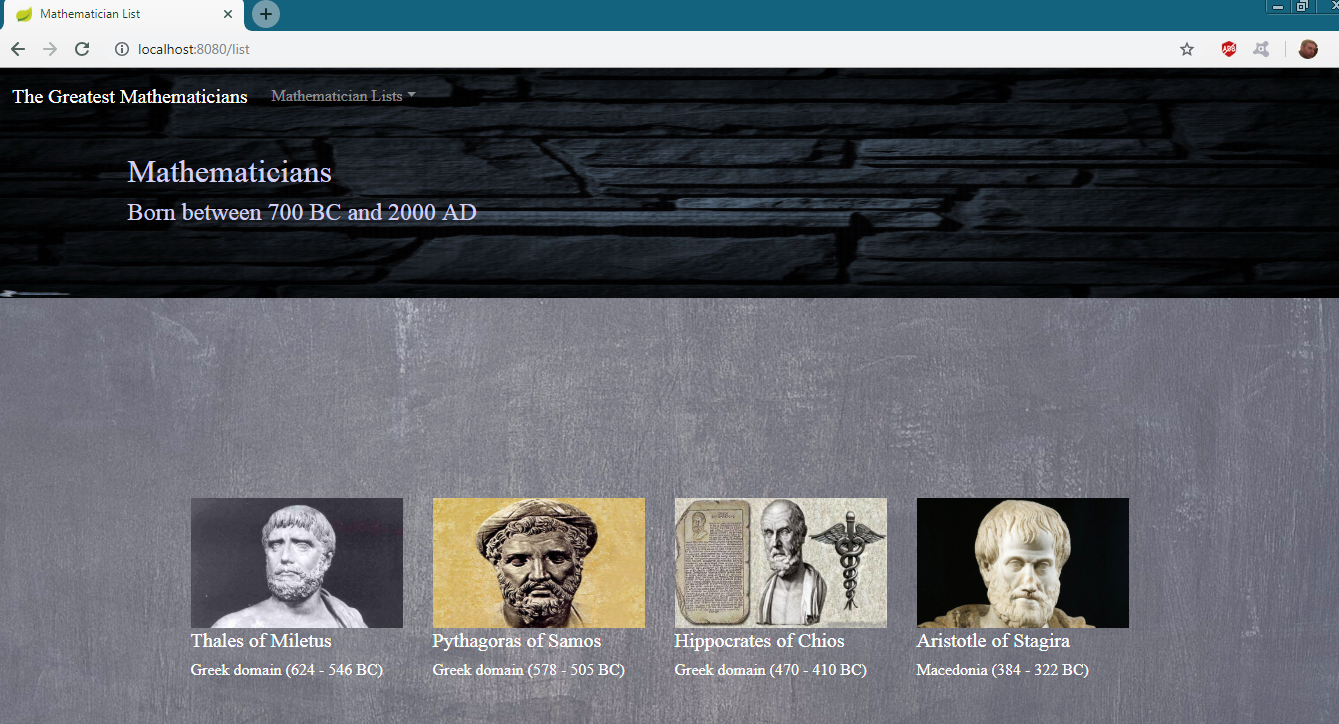
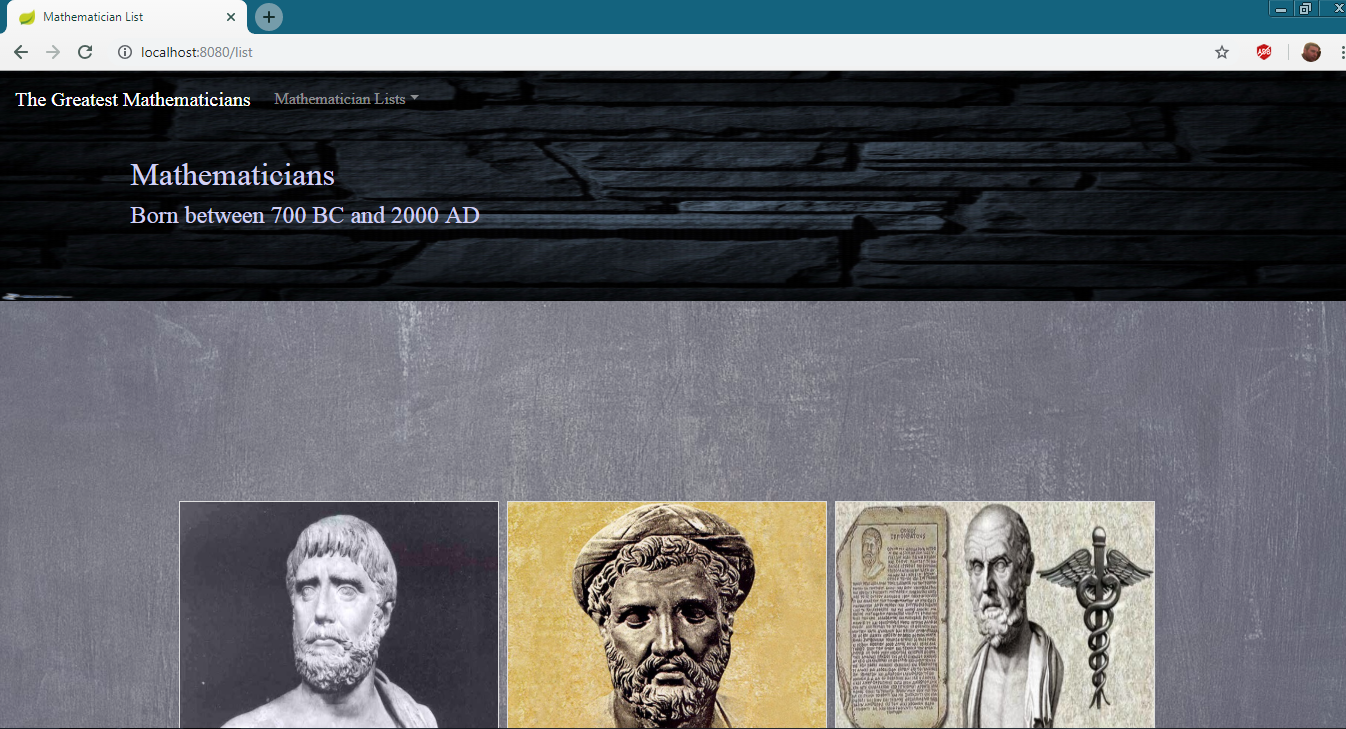
change cards

diff --git a/src/main/resources/templates/math_list.html b/src/main/resources/templates/math_list.html
@@ -10,20 +10,24 @@
     <script src="https://cdnjs.cloudflare.com/ajax/libs/popper.js/1.14.3/umd/popper.min.js"></script>
     <script src="https://maxcdn.bootstrapcdn.com/bootstrap/4.1.3/js/bootstrap.min.js"></script>
     <link rel="stylesheet" th:href="@{/css/maths.css}"/>
+    <link rel="stylesheet" th:href="@{/css/card.css}"/>
+    <script th:src="@{/js/maths.js}"></script>
 
 </head>
 <body>
 
 <nav class="navbar navbar-expand-md navbar-dark bg-fade fixed-top" style="font-family: 'sans-serif'">
     <a class="navbar-brand" href="#">The Greatest Mathematicians</a>
-    <button class="navbar-toggler" type="button" data-toggle="collapse" data-target="#navbarsExampleDefault" aria-controls="navbarsExampleDefault" aria-expanded="false" aria-label="Toggle navigation">
+    <button class="navbar-toggler" type="button" data-toggle="collapse" data-target="#navbarsExampleDefault"
+            aria-controls="navbarsExampleDefault" aria-expanded="false" aria-label="Toggle navigation">
         <span class="navbar-toggler-icon"></span>
     </button>
 
     <div class="collapse navbar-collapse" id="navbarsExampleDefault">
         <ul class="navbar-nav mr-auto">
             <li class="nav-item dropdown">
-                <a class="nav-link dropdown-toggle" href="http://example.com" id="dropdown01" data-toggle="dropdown" aria-haspopup="true" aria-expanded="false">Mathematician Lists</a>
+                <a class="nav-link dropdown-toggle" href="http://example.com" id="dropdown01" data-toggle="dropdown"
+                   aria-haspopup="true" aria-expanded="false">Mathematician Lists</a>
                 <div class="dropdown-menu" aria-labelledby="dropdown01">
                     <a class="dropdown-item" th:href="@{/listAll}">Born between 700 BC and 2000 AD</a>
                     <a class="dropdown-item" th:href="@{/list1}">Born between 700 BC and 1400 AD</a>
@@ -48,29 +52,49 @@
     <div class="parallax-container">
         <div class="row">
             <div th:each="math : ${mathematicians}">
-                <div class="col-md-3">
 
-                    <div class="thumbnail" style="width: 212px; height: 250px">
-                        <a th:href="@{/mathematicianStory/{id}(id=${math.mathematicianID})}">
-                            <img th:src="${math.image}" style="width: 212px; height: 130px" alt="...">
-                        </a>
-                        <div class="caption">
-                            <h5 th:text="${math.name}" style="color: white; font-family: 'sans-serif'"></h5>
-                            <h6 th:text="${math.lived}" style="color: white; font-family: 'sans-serif'"></h6>
+                <div class="image-flip" ontouchstart="this.classList.toggle('hover');">
+                    <div class="mainflip">
+                        <div class="frontside">
+                            <div class="card" style="width:20rem;">
+                                <img class="card-img-top img- fluid" th:src="${math.image}"
+                                     style="width: 19.9rem; height: 15rem" alt="card image">
+                                <!--<div class="card-body">
+                                    <h4 class="card-title">Card Title</h4>
+                                    <p class="card-text">This is basic card with image on top, title, description and button.</p>
+                                </div>-->
+                            </div>
+                        </div>
+                        <div class="backside">
+                            <div class="card" style="background-color:#c87a7c; width:20rem; height: 15.2rem">
+                                <!-- <div class="card-header">
+                                     This is a Header
+                                 </div>-->
+                                <div class="card-body">
+                                    <h4 class="card-title" th:text="${math.name}"
+                                        style="margin-top: 20px; font-family: 'sans-serif'"></h4>
+                                    <p class="card-text" th:text="${math.lived}" style="font-family: 'sans-serif'"></p>
+                                    <a th:href="@{/mathematicianStory/{id}(id=${math.mathematicianID})}"
+                                       style="margin-top: 20px; font-family: 'sans-serif'"
+                                       class="btn btn-secondary btn-md">Read story</a>
+                                </div>
+                                <!-- <div class="card-footer">
+                                     This is a Footer
+                                 </div>-->
+                            </div>
                         </div>
                     </div>
-
                 </div>
+
             </div>
         </div>
     </div>
 </section>
 <footer class="footer">
     <div class="container-fluid bg-secondary">
-
-            <div class="col-xs-6 col-md-4 left">
-                <p>The Greatest Mathematicians</p>
-            </div>
+        <div class="col-xs-6 col-md-4 left" style="font-family: 'sans-serif'">
+            <p>The Greatest Mathematicians</p>
+        </div>
     </div>
 </footer>
 </body>

diff --git a/src/main/resources/static/css/card.css b/src/main/resources/static/css/card.css
@@ -1,0 +1,72 @@
+.image-flip:hover .backside, .image-flip.hover .backside {
+    -webkit-transform: rotateY(0deg);
+    -moz-transform: rotateY(0deg);
+    -o-transform: rotateY(0deg);
+    -ms-transform: rotateY(0deg);
+    transform: rotateY(0deg);
+}
+
+.image-flip:hover .frontside, .image-flip.hover .frontside {
+    -webkit-transform: rotateY(180deg);
+    -moz-transform: rotateY(180deg);
+    -o-transform: rotateY(180deg);
+    transform: rotateY(180deg);
+}
+
+.image-flip {
+    margin-bottom:100px;
+    width: 20.5rem;
+    height: 250px;
+}
+
+.mainflip {
+    -webkit-transition: 1s;
+    -webkit-transform-style: preserve-3d;
+    -ms-transition: 1s;
+    -moz-transition: 1s;
+    -moz-transform: perspective(1000px);
+    -moz-transform-style: preserve-3d;
+    -ms-transform-style: preserve-3d;
+    transition: 1s;
+    transform-style: preserve-3d;
+    position: relative;
+}
+
+.frontside, .backside {
+    -webkit-backface-visibility: hidden;
+    -moz-backface-visibility: hidden;
+    -ms-backface-visibility: hidden;
+    backface-visibility: hidden;
+    -webkit-transition: 1s;
+    -webkit-transform-style: preserve-3d;
+    -moz-transition: 1s;
+    -moz-transform-style: preserve-3d;
+    -o-transition: 1s;
+    -o-transform-style: preserve-3d;
+    -ms-transition: 1s;
+    -ms-transform-style: preserve-3d;
+    transition: 1s;
+    transform-style: preserve-3d;
+    position: absolute;
+    top: 0;
+    left: 0;
+}
+
+.frontside {
+    -webkit-transform: rotateY(0deg);
+    -ms-transform: rotateY(0deg);
+    z-index: 2;
+}
+
+.backside {
+    background: white;
+    -webkit-transform: rotateY(-180deg);
+    -moz-transform: rotateY(-180deg);
+    -o-transform: rotateY(-180deg);
+    -ms-transform: rotateY(-180deg);
+    transform: rotateY(-180deg);
+}
+
+.card, .card-img-top {
+    border-radius: 0;
+}

diff --git a/src/main/resources/templates/math_story.html b/src/main/resources/templates/math_story.html
@@ -10,6 +10,7 @@
     <script src="https://cdnjs.cloudflare.com/ajax/libs/popper.js/1.14.3/umd/popper.min.js"></script>
     <script src="https://maxcdn.bootstrapcdn.com/bootstrap/4.1.3/js/bootstrap.min.js"></script>
     <link rel="stylesheet" th:href="@{/css/maths.css}"/>
+    <script th:src ="@{/js/maths.js}"></script>
 
 </head>
 <body>
@@ -37,7 +38,7 @@
 </nav>
 <div class="jumbotron jumbotron-fluid">
     <div class="container">
-        <h1 class="display-3"><b style="font-family: 'sans-serif';" th:text="${math.name}"/></h1>
+        <h1 class="display-3"><b style="font-family: '@{/css/Righteous-Regular.ttf}'" th:text="${math.name}"/></h1>
     </div>
 </div>
 <section class="module parallax parallax-1" data-type="background" data-speed="10">
@@ -58,7 +59,7 @@
 
 <footer class="footer">
     <div class="container-fluid bg-secondary">
-        <div class="col-xs-6 col-md-4 left">
+        <div class="col-xs-6 col-md-4 left" style="font-family: 'sans-serif'">
                 <p>The Greatest Mathematicians</p>
             </div>
     </div>

diff --git a/src/main/resources/static/js/maths.js b/src/main/resources/static/js/maths.js
@@ -1,0 +1,36 @@
+$(document).ready(function(){
+    var $window = $(window);
+    $('section[data-type="background"]').each(function(){
+        var $bgobj = $(this); // assigning the object
+
+        $(window).scroll(function() {
+            var yPos = -($window.scrollTop() / $bgobj.data('speed'));
+
+            // Put together our final background position
+            var coords = '50% '+ yPos + 'px';
+
+            // Move the background
+            $bgobj.css({ backgroundPosition: coords });
+        });
+    });
+});
+
+//menu transition js
+$(document).ready(function(){
+    $(window).scroll(function(){
+        var scroll = $(window).scrollTop();
+        if (scroll > 0) {
+            $(".navbar").addClass("navbar-scroll");
+        }
+        else{
+            $(".navbar").removeClass("navbar-scroll");
+        }
+        if (scroll > 200) {
+            $(".navbar").addClass("bg-secondary");
+        }
+
+        else{
+            $(".navbar").removeClass("bg-secondary");
+        }
+    })
+})
